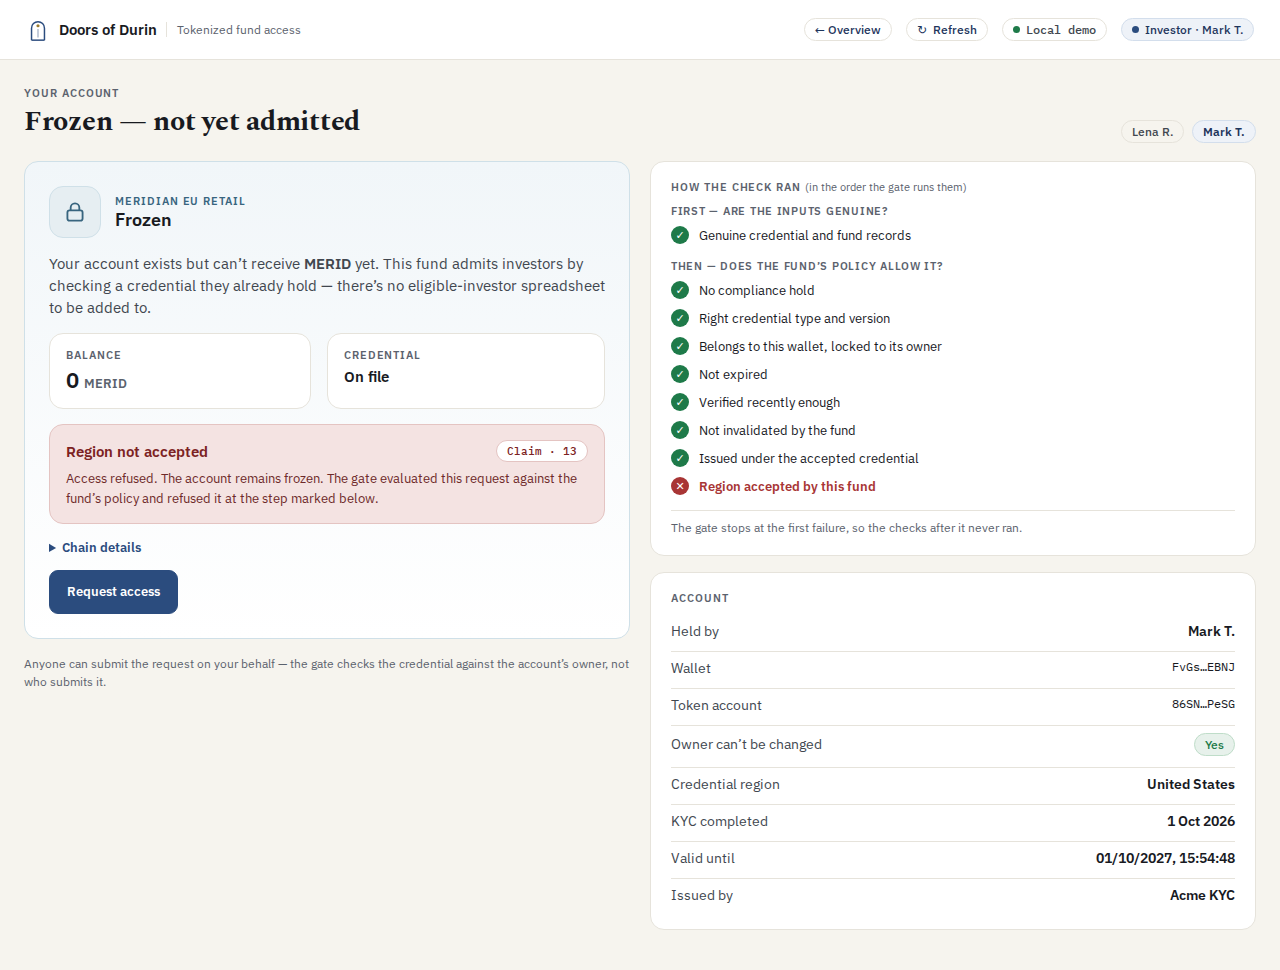
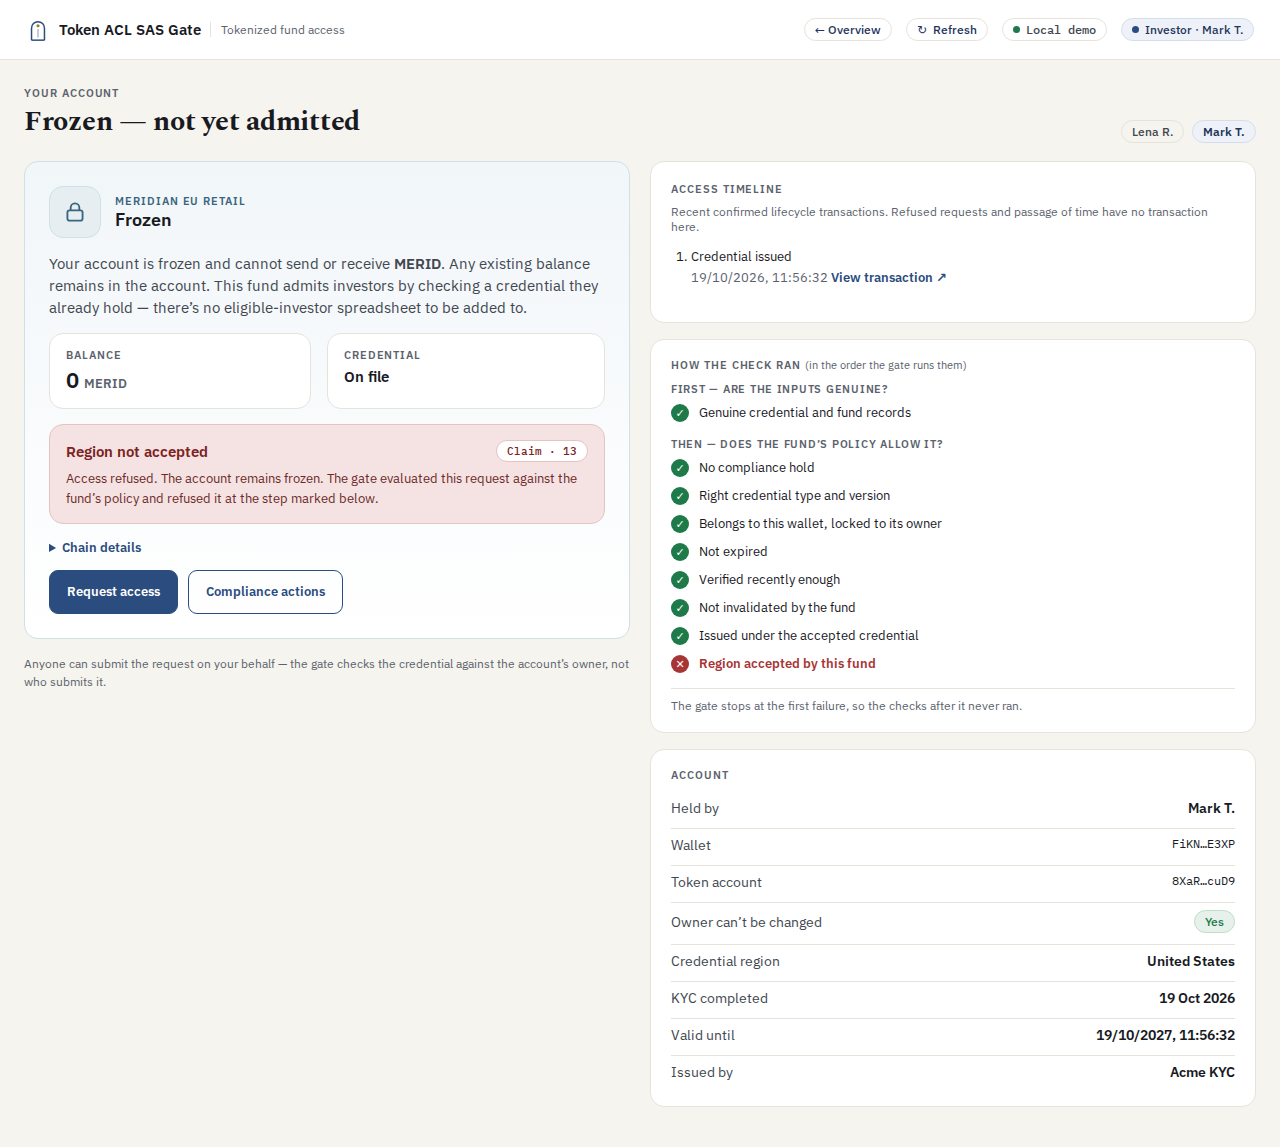
docs: regenerate the README screenshots and remove the mockups (#17)
* fix(demo): remove the remaining use-case labels

The overview still read "Live demo · use cases 1, 2 and 5" and the two-funds
screen's eyebrow read "Use case 5", after #14 removed the other use-case
labels. The overview now reads "Live demo", and the two-funds screen names
its role, Investor, like the other screens.

* docs: remove the design mockups

The mockups still showed the project's former name and screens that were
only planned, and nothing linked to them. The demo's README now relates the
screen numbers to the overview instead of the mockups, and the design-token
comment no longer refers to them.

* docs: regenerate the README screenshots with a Playwright walk

The screenshots still showed the gate's former name. `mise run screenshots`
(in app/) now builds the site, starts an isolated, freshly seeded surfnet
through the e2e test server, walks the demo, and writes the ten README
screenshots. Each capture waits for the outcome it shows, so a screen that
no longer reaches that state fails the run instead of producing a
misleading image. The walk has its own Playwright config and stays out of
the e2e suite.

Regenerated all ten screenshots with it.

---------

diff --git a/app/screenshots/capture.spec.ts b/app/screenshots/capture.spec.ts
@@ -1,0 +1,76 @@
+import { test, expect, type Page } from "@playwright/test";
+
+// Walks the demo on a freshly seeded, isolated surfnet (scripts/test-server.ts)
+// and writes the README screenshots. Each capture waits for the outcome it
+// shows, so a screen that no longer reaches that state fails here instead of
+// producing a misleading image.
+
+const OUT = "../docs/images/screenshots";
+
+async function capture(page: Page, name: string) {
+  // Keep hover and focus styles out of the image.
+  await page.mouse.move(0, 0);
+  await page.evaluate(() => (document.activeElement as HTMLElement | null)?.blur());
+  await page.screenshot({ path: `${OUT}/${name}.png`, fullPage: true });
+}
+
+async function issue(page: Page, who: "lena" | "mark") {
+  await page.goto("/issuer");
+  await page.getByLabel("Investor wallet — who this credential is for").selectOption(who);
+  await page.getByLabel("Valid until").selectOption("year");
+  await page.getByRole("button", { name: "Issue credential", exact: true }).click();
+  await expect(page.getByRole("status")).toContainText("Credential issued and confirmed");
+}
+
+async function requestAccess(page: Page, who: "lena" | "mark", outcome: string) {
+  await page.goto(`/investor/${who}`);
+  await page.getByRole("button", { name: "Request access" }).click();
+  await expect(page.getByRole("status")).toContainText(outcome);
+}
+
+test("README screenshots", async ({ page }) => {
+  await page.goto("/");
+  await capture(page, "01-overview");
+
+  await page.goto("/operator");
+  for (const step of [
+    "Fund token created",
+    "Access handed to the eligibility gate",
+    "Eligibility checks wired in",
+    "Investors can request access",
+  ])
+    await expect(page.getByText(`${step} — done`)).toBeAttached();
+  await capture(page, "02-operator-fund-setup");
+
+  await page.goto("/authority");
+  await expect(page.getByRole("listitem").filter({ hasText: "Acme KYC" })).toBeVisible();
+  await capture(page, "03-authority");
+
+  await requestAccess(page, "lena", "No credential on file");
+  await capture(page, "04-investor-lena-refused-no-credential");
+
+  await issue(page, "lena");
+  await capture(page, "05-issuer-credential-issued");
+
+  await requestAccess(page, "lena", "Admission confirmed on-chain");
+  await expect(page.getByTestId("account-state")).toHaveText("Active");
+  await capture(page, "06-investor-lena-admitted");
+
+  await page.goto("/operator");
+  await page.getByRole("button", { name: "Allocate 25,000" }).first().click();
+  await expect(page.getByRole("status")).toContainText("25,000 MERID received");
+  await capture(page, "07-operator-allocation-received");
+
+  await issue(page, "mark");
+  await requestAccess(page, "mark", "Region not accepted");
+  await capture(page, "08-investor-mark-denied-region");
+
+  await page.goto("/status");
+  await page.waitForLoadState("networkidle");
+  await capture(page, "09-network-status");
+
+  await page.setViewportSize({ width: 390, height: 844 });
+  await page.goto("/investor/lena");
+  await expect(page.getByTestId("account-state")).toHaveText("Active");
+  await capture(page, "10-phone-investor-lena");
+});

diff --git a/app/src/app/funds/page.tsx b/app/src/app/funds/page.tsx
@@ -21,7 +21,7 @@ export default function Funds() {
   return (
     <Screen role="investor" roleLabel={holder.name}>
       <ActionError />
-      <PageTitle eyebrow="Use case 5" title="Two funds, one credential" />
+      <PageTitle eyebrow="Investor" title="Two funds, one credential" />
       <p style={{ maxWidth: 720, color: "var(--ink2)", lineHeight: 1.6, marginBottom: 20 }}>
         One credential per investor, shared across both funds. EU Retail accepts Germany
         and France; Meridian US accepts the United States. Lena qualifies for EU Retail,

diff --git a/app/playwright.screenshots.config.ts b/app/playwright.screenshots.config.ts
@@ -1,0 +1,11 @@
+import { defineConfig } from "@playwright/test";
+import base from "./playwright.config";
+
+// Regenerates the README screenshots in docs/images/screenshots: `mise run
+// screenshots`. Kept out of the e2e suite, which asserts behaviour rather than
+// pixels; this walk only waits for each screen's outcome before capturing it.
+export default defineConfig({
+  ...base,
+  testDir: "./screenshots",
+  use: { ...base.use, viewport: { width: 1280, height: 860 } },
+});

diff --git a/app/src/app/globals.css b/app/src/app/globals.css
@@ -1,7 +1,7 @@
 /*
- * Design tokens for the demo, taken from the screen mockups.
+ * Design tokens for the demo.
  *
- * `--muted` is #5B626D rather than the mockups' first-draft #727A85: that value
+ * `--muted` is #5B626D rather than the first draft's #727A85: that value
  * measured 3.95:1 on --paper and 4.34:1 on --panel, under the 4.5:1 WCAG AA
  * floor for the 11-13px captions it is used for. #5B626D gives 5.6:1 / 6.2:1.
  */

diff --git a/app/src/app/page.tsx b/app/src/app/page.tsx
@@ -101,7 +101,7 @@ export default function Overview() {
       >
         <section style={{ display: "flex", flexDirection: "column", gap: 16 }}>
           <div>
-            <div className="lbl">Live demo · use cases 1, 2 and 5</div>
+            <div className="lbl">Live demo</div>
             <h1
               className="serif"
               style={{ fontSize: 33, fontWeight: 700, lineHeight: 1.1, letterSpacing: "-.01em" }}

diff --git a/app/README.md b/app/README.md
@@ -109,8 +109,8 @@ issuance options. Omitted issuance options normalize to today and one year.
 | `/funds` | 9 · Two funds, one credential | Investor |
 | `/status` | Surfnet, programs and session | — |
 
-The numbered screens follow the credential admission mockups. The credential authority screen is
-not in the mockups; it shows the role split above. Withdrawal, compliance
+The numbers match the overview's screen numbers. The credential authority
+screen is unnumbered; it shows the role split above. Withdrawal, compliance
 actions, and the access timeline implement the credential lifecycle.
 Screen 9 shows independent policies for two mints.
 
